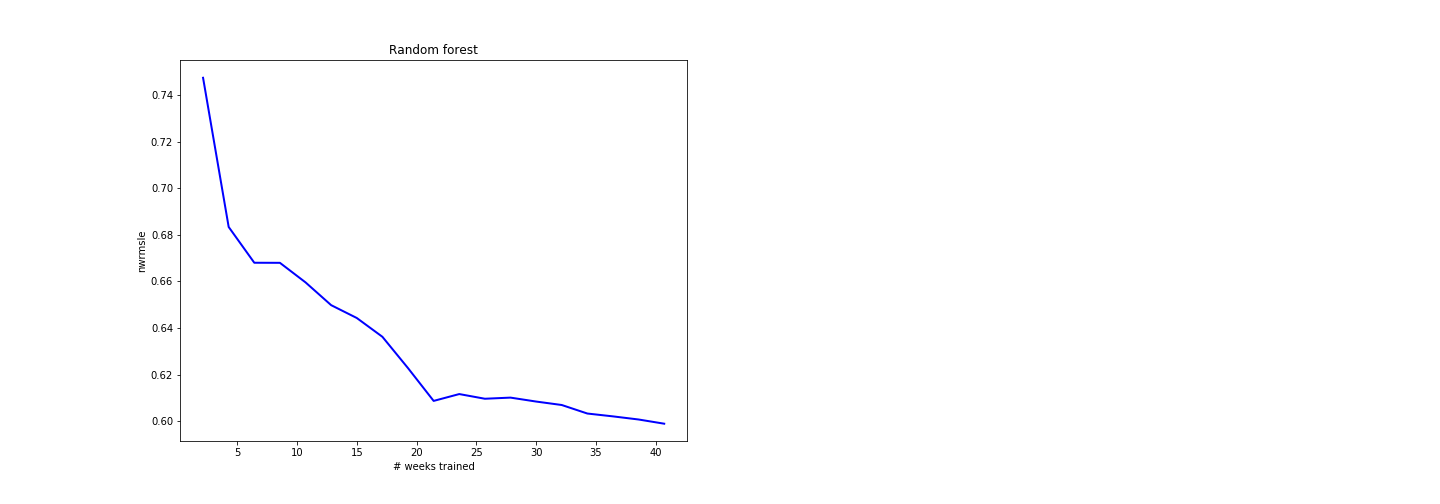
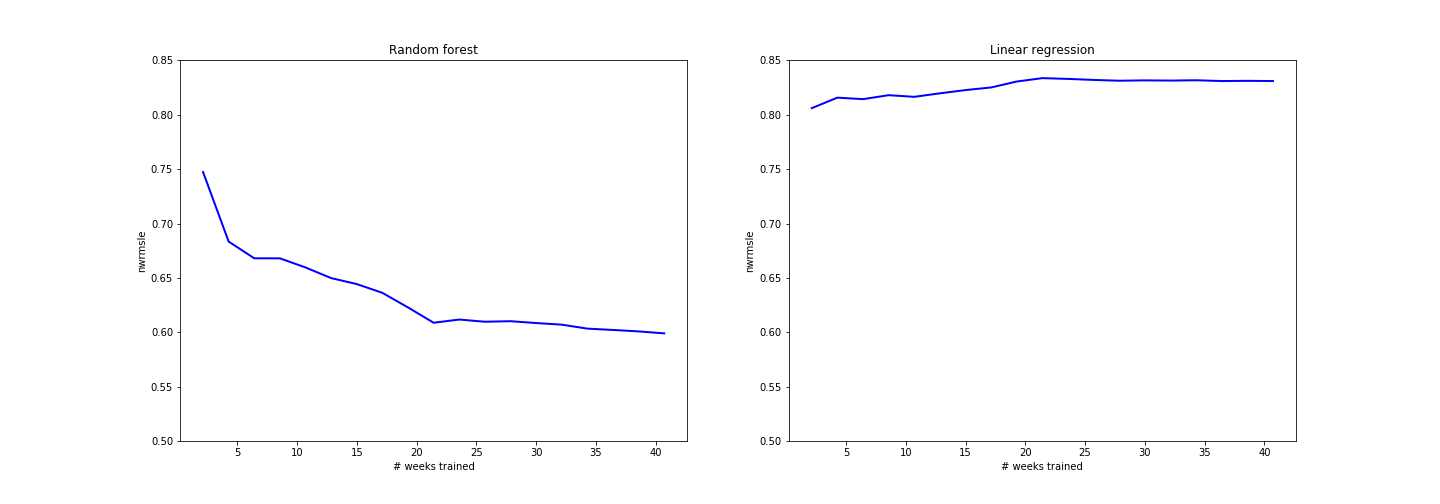
update figures

diff --git a/codes/plot_errors.py b/codes/plot_errors.py
@@ -36,7 +36,7 @@ n_days      = 15
 train_weeks = np.arange(n_days, n_months*30, n_days)/7;
 
 # plot the results
-_, nwrmsle = read_errorfile(result_path, 'errors_rf_reg.txt')
+rsquared, nwrmsle = read_errorfile(result_path, 'errors_rf_reg.txt')
 
 fig, ax    = plt.subplots(nrows=1, ncols=1, sharex='col', sharey='row', figsize=(20, 7))
 ax         = plt.subplot(1, 2, 1)
@@ -45,12 +45,12 @@ plt.xlabel('# weeks trained')
 plt.ylabel('nwrmsle')
 plt.title('Random forest')
 
-#_, nwrmsle = read_errorfile(result_path, 'errors_lin_reg.txt')
-#ax         = plt.subplot(1, 2, 2)
-#plt.plot(train_weeks, nwrmsle[::4])
-#plt.xlabel('# weeks trained')
-#plt.ylabel('nwrmsle')
-#plt.title('Linear regression')
+rsquared, nwrmsle = read_errorfile(result_path, 'errors_lin_reg.txt')
+ax         = plt.subplot(1, 2, 2)
+plt.plot(train_weeks, rsquared[::4])
+plt.xlabel('# weeks trained')
+plt.ylabel('nwrmsle')
+plt.title('Linear regression')
 #
 fig.savefig(result_path + '/scores')
 
